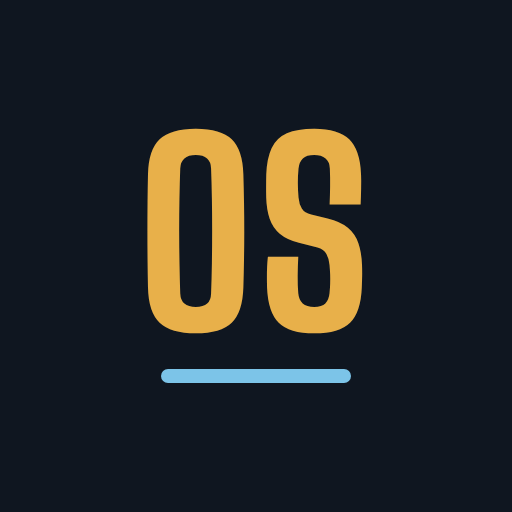
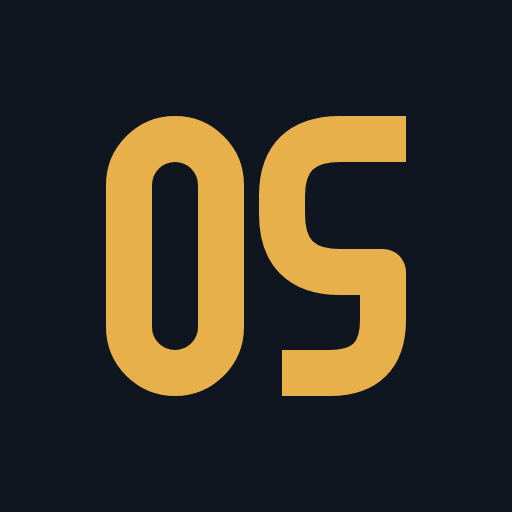
Ny ikon: läses OS, och 50 upp och ner
Egna glyfer i SVG (icons/icon.svg) så att S blir 5 och O blir 0 när
ikonen vänds. Lägger till apple-touch-icon i 180 px och en separat
maskable-ikon med glyferna inom Androids säkerhetszon.

Claude-Session: https://claude.ai/code/session_014wvUK7SWmQx3vrZgzSQtVL

Changed region(s): [[0.1875, 0.2188, 0.8125, 0.7812], [0.4062, 0.25, 0.4688, 0.3125]]

diff --git a/index.html b/index.html
@@ -5,8 +5,8 @@
 <meta name="viewport" content="width=device-width, initial-scale=1, viewport-fit=cover">
 <meta name="theme-color" content="#0F1620">
 <title>Onyktra Spelen</title>
-<link rel="icon" href="icons/icon-192.png" type="image/png">
-<link rel="apple-touch-icon" href="icons/icon-192.png">
+<link rel="icon" href="icons/icon.svg" type="image/svg+xml">
+<link rel="apple-touch-icon" href="icons/apple-touch-icon.png">
 <link rel="manifest" href="manifest.webmanifest">
 <meta name="mobile-web-app-capable" content="yes">
 <meta name="apple-mobile-web-app-capable" content="yes">

diff --git a/sw.js b/sw.js
@@ -17,6 +17,9 @@ const APPFILER = [
   'fonts/ibm-plex-mono-500.woff2',
   'icons/icon-192.png',
   'icons/icon-512.png',
+  'icons/icon.svg',
+  'icons/apple-touch-icon.png',
+  'icons/icon-maskable-512.png',
 ];
 
 // Spotify och Google Fonts-API:t går alltid direkt till nätet och cachas aldrig.

diff --git a/docs/SPEC.md b/docs/SPEC.md
@@ -150,7 +150,8 @@ Mobil först (390 px bredd), mörkt tema. Designskiss: `docs/design/overview.htm
 /style.css
 /sw.js           – service worker (offline-cache)
 /manifest.webmanifest
-/icons/icon-192.png, icon-512.png
+/icons/icon.svg      – ikonkälla (läses OS, och 50 upp och ner)
+/icons/icon-192.png, icon-512.png, icon-maskable-512.png, apple-touch-icon.png
 /fonts/*.woff2    – självhostade typsnitt (fungerar offline)
 ```
 
